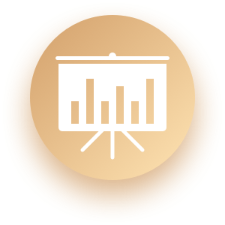
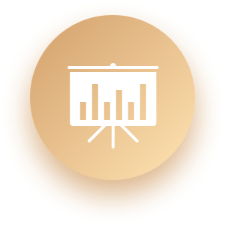
V1.14

Changed region(s): [[0.2489, 0.2178, 0.7778, 0.7156]]

diff --git a/Konnect/ServiceOffice/ServiceOffice.m b/Konnect/ServiceOffice/ServiceOffice.m
@@ -133,21 +133,23 @@
             [cell.textLabel setText:TEXT_MY_VIRTUAL_OFFICE];
         } else if (indexPath.row==2) {
             [cell.textLabel setText:TEXT_KONNECT_CONCERIGE];
+            /*
         } else if (indexPath.row==3) {
             [cell.textLabel setText:TEXT_BOOK_MEETING_ROOM];
         } else if (indexPath.row==4) {
             [cell.textLabel setText:TEXT_BOOK_POPUP_LOUNGE];
-        } else if (indexPath.row==5) {
-            [cell.textLabel setText:TEXT_BOOK_POLYFORM_EVENT];
-        } else if (indexPath.row==6) {
+             */
+        } else if (indexPath.row==3) {
+            [cell.textLabel setText:TEXT_BOOK_MEETING_ROOM];
+        } else if (indexPath.row==4) {
             [cell.textLabel setText:TEXT_PROMO];
-        } else if (indexPath.row==7) {
+        } else if (indexPath.row==5) {
             [cell.textLabel setText:TEXT_INVOICE];
-        } else if (indexPath.row==8) {
+        } else if (indexPath.row==6) {
             [cell.textLabel setText:TEXT_CS];
-        } else if (indexPath.row==9) {
+        } else if (indexPath.row==7) {
             [cell.textLabel setText:TEXT_SERVICE_OFFICE_TOU];
-        } else if (indexPath.row==10) {
+        } else if (indexPath.row==8) {
             [cell.textLabel setText:TEXT_SERVICE_VIRTUAL_TOU];
         }
     }
@@ -194,6 +196,7 @@
         } else if (indexPath.row==2) {
             [[NSNotificationCenter defaultCenter] postNotificationName:GO_SLIDE object:
              [[NSDictionary alloc] initWithObjects:@[[NSNumber numberWithInt:VC_TYPE_CONCIERGE]] forKeys:@[@"type"]]];
+            /*
         } else if (indexPath.row==3) {
             [[NSNotificationCenter defaultCenter] postNotificationName:GO_SLIDE object:
              [[NSDictionary alloc] initWithObjects:@[[NSNumber numberWithInt:VC_TYPE_SEARCH_MEETING_ROOM]] forKeys:@[@"type"]]];
@@ -205,7 +208,8 @@
                                                                 @"view"
                                                                 ]
                                                       forKeys:@[@"type",@"facilityID",@"queryType"]]];
-        } else if (indexPath.row==5) {            
+             */
+        } else if (indexPath.row==3) {
                         [[NSNotificationCenter defaultCenter] postNotificationName:GO_SLIDE object:
                                    [[NSDictionary alloc] initWithObjects:@[
                                                                            [NSNumber numberWithInt:VC_TYPE_MEETING_ROOM],
@@ -213,23 +217,23 @@
                                                                            @"view"
                                                                            ]
                                                                  forKeys:@[@"type",@"facilityID",@"queryType"]]];
-        } else if (indexPath.row==6) {
+        } else if (indexPath.row==4) {
             // promo
             [[NSNotificationCenter defaultCenter] postNotificationName:GO_SLIDE object:
              [[NSDictionary alloc] initWithObjects:@[[NSNumber numberWithInt:VC_TYPE_OFFICE_PROMO]] forKeys:@[@"type"]]];
             
-        } else if (indexPath.row==7) {
+        } else if (indexPath.row==5) {
             if ([delegate checkLogin]) {
                 [[NSNotificationCenter defaultCenter] postNotificationName:GO_SLIDE object:
                  [[NSDictionary alloc] initWithObjects:@[[NSNumber numberWithInt:VC_TYPE_INVOICES],TEXT_INVOICE_TYPE_PENDING] forKeys:@[@"type",@"status"]]];
             }
-        } else if (indexPath.row==8) {
+        } else if (indexPath.row==6) {
             [[NSNotificationCenter defaultCenter] postNotificationName:GO_SLIDE object:
              [[NSDictionary alloc] initWithObjects:@[[NSNumber numberWithInt:VC_TYPE_CONTACT_OFFICE],TEXT_INQUIRY_SERVICE_OFFICE_SUPPORT] forKeys:@[@"type",@"inquirytype"]]];
-        } else if (indexPath.row==9) {
+        } else if (indexPath.row==7) {
             [[NSNotificationCenter defaultCenter] postNotificationName:GO_SLIDE object:
              [[NSDictionary alloc] initWithObjects:@[[NSNumber numberWithInt:VC_TYPE_TOU],[NSString stringWithFormat:@"%@service-office-house-rules/",domain]] forKeys:@[@"type",@"url"]]];
-        } else if (indexPath.row==10) {
+        } else if (indexPath.row==8) {
             [[NSNotificationCenter defaultCenter] postNotificationName:GO_SLIDE object:
              [[NSDictionary alloc] initWithObjects:@[[NSNumber numberWithInt:VC_TYPE_TOU],[NSString stringWithFormat:@"%@virtual-office-house-rules/",domain]] forKeys:@[@"type",@"url"]]];
             

diff --git a/Konnect/Facility/Booking.m b/Konnect/Facility/Booking.m
@@ -204,11 +204,11 @@
     UIPickerView *picker = [pickerViewToolbar viewWithTag:1];
     if (picker==datepicker) {
         bookDate = pickerValue.text;
-        [self.tableView reloadRowsAtIndexPaths:@[[NSIndexPath indexPathForRow:2 inSection:0]] withRowAnimation:UITableViewRowAnimationFade];
-    } else if (picker==timepicker){
         [self.tableView reloadRowsAtIndexPaths:@[[NSIndexPath indexPathForRow:3 inSection:0]] withRowAnimation:UITableViewRowAnimationFade];
-    } else if (picker==peoplepicker){
+    } else if (picker==timepicker){
         [self.tableView reloadRowsAtIndexPaths:@[[NSIndexPath indexPathForRow:4 inSection:0]] withRowAnimation:UITableViewRowAnimationFade];
+    } else if (picker==peoplepicker){
+        [self.tableView reloadRowsAtIndexPaths:@[[NSIndexPath indexPathForRow:5 inSection:0]] withRowAnimation:UITableViewRowAnimationFade];
     } else if (picker==roompicker){
         [self.tableView reloadRowsAtIndexPaths:@[[NSIndexPath indexPathForRow:7 inSection:0]] withRowAnimation:UITableViewRowAnimationFade];
     } else if (picker==alcoholpicker){

diff --git a/Konnect/Home/Home.m b/Konnect/Home/Home.m
@@ -174,10 +174,12 @@
 -(void) addBottomPart:(NSArray *)data {
     CGFloat x = SIDE_PAD;
     CGFloat y = 0;
-    CGFloat width = (delegate.screenWidth-SIDE_PAD_2-SIDE_PAD)/2;
+    //CGFloat width = (delegate.screenWidth-SIDE_PAD_2-SIDE_PAD)/2;
+    CGFloat width = (delegate.screenWidth-SIDE_PAD_2-SIDE_PAD_2)/3;
+    CGFloat height = width / 315 * 360;
     int k = 0;
     for (NSDictionary *d in data) {
-        UIImageView *v =[[UIImageView alloc] initWithFrame:CGRectMake(x,y,width,80)];
+        UIImageView *v =[[UIImageView alloc] initWithFrame:CGRectMake(x,y,width,height)];
         [v setUserInteractionEnabled:YES];
         v.tag = k;
         UITapGestureRecognizer *tap = [[UITapGestureRecognizer alloc] initWithTarget:self action:@selector(adpressed:)];
@@ -190,7 +192,7 @@
         x+= SIDE_PAD + width;
         if ((x+width) > delegate.screenWidth) {
             x = SIDE_PAD;
-            y+=70+LINE_PAD;
+            y+=height+LINE_PAD;
         }
         [bottom addSubview:v];
         

diff --git a/Konnect/Header.m b/Konnect/Header.m
@@ -20,9 +20,9 @@
 - (void)viewDidLoad {
     [super viewDidLoad];
     // Do any additional setup after loading the view.
+    [self.view setBackgroundColor:[delegate getThemeColor]];
     delegate = (AppDelegate *)[[UIApplication sharedApplication]delegate];
     backEnabled = YES;
-    [self.view setBackgroundColor:[delegate getThemeColor]];
 
     back = [UIButton  buttonWithType:UIButtonTypeCustom];
     [back setFrame:CGRectMake(SIDE_PAD,delegate.headerHeight-30,24,24)];
@@ -53,6 +53,9 @@
 
     
     [[NSNotificationCenter defaultCenter] addObserver:self selector:@selector(changeTitle:) name:CHANGE_TITLE object:nil];
+}
+-(void) viewWillAppear:(BOOL)animated {
+    [self.view setBackgroundColor:[delegate getThemeColor]];
 }
 -(void) redirectBackBtn:(NSNotification *)t {
     [back removeTarget:self action:@selector(onBackPressed) forControlEvents:UIControlEventAllEvents];

diff --git a/Konnect/AppDelegate.m b/Konnect/AppDelegate.m
@@ -182,7 +182,9 @@
     [JPUSHService registerDeviceToken:deviceToken];
     
     NSString *dToken = JPUSHService.registrationID;
-    if ([dToken isKindOfClass:[NSString class]] && ![@"" isEqualToString:dToken]) {
+    if ([dToken isKindOfClass:[NSString class]] && ![@"" isEqualToString:dToken] &&
+        [[preferences objectForKey:K_USER_OPENID] isKindOfClass:[NSString class]] && ![[preferences objectForKey:K_USER_OPENID] isEqualToString:@""]
+        ) {
     [[KApiManager sharedManager] getResultAsync:[NSString stringWithFormat:@"%@app-server",domain] param:
         [[NSDictionary alloc] initWithObjects:@[
                                                 @"Jpush",

diff --git a/Konnect/Facility/ImageGallery.m b/Konnect/Facility/ImageGallery.m
@@ -35,7 +35,7 @@
         [nav.view setFrame:CGRectMake(0,0,delegate.screenWidth,delegate.screenHeight-PANEL_HEIGHT)];
         [self.view addSubview:nav.view];
         
-        panel = [[UIScrollView alloc] initWithFrame:CGRectMake(0,delegate.screenHeight-PANEL_HEIGHT,delegate.screenWidth,PANEL_HEIGHT)];
+        panel = [[UIScrollView alloc] initWithFrame:CGRectMake(0,delegate.screenHeight-PANEL_HEIGHT-delegate.footerHeight,delegate.screenWidth,PANEL_HEIGHT)];
         [panel setBackgroundColor:[UIColor colorWithWhite:0.98 alpha:1.0]];
         [self.view addSubview:panel];
         

diff --git a/Konnect/Facility/ImageZoomViewController.m b/Konnect/Facility/ImageZoomViewController.m
@@ -77,7 +77,7 @@
     //[base setContentSize:CGSizeMake(img.size.width,img.size.height)];
     [base scrollRectToVisible:CGRectMake(0,0,1,1) animated:NO];
     
-    image.center = CGPointMake(delegate.screenWidth/2, delegate.screenHeight/2-72);
+    image.center = CGPointMake(delegate.screenWidth/2, (delegate.screenHeight-delegate.footerHeight)/2-72);
     /*
     CGFloat scaleX = 1.0f* self.view.frame.size.width / img.size.width;
     CGFloat scaleY = 1.0f* self.view.frame.size.height / img.size.height;

diff --git a/Konnect/AppDelegate.h b/Konnect/AppDelegate.h
@@ -7,6 +7,16 @@
 //
 /* TODO : Invoice Create per item details
  TODO: Check Login Validity
+ Version 1.14
+ 1) Changed App Icon
+ 2) Updated Homepage Icons
+ 3) changed Homepage layout
+ 4) Removed Meeting room booking and replaced with Polyform space booking form
+ 5) Fixed reservation now page
+ 6) Fixed layout for image gallery
+ 
+ Version 1.13 (16/2/2020)
+ 1) Second patch for Guarded a JPUSH registration error (test)
  
  Version 1.12 (16/2/2020)
  1) Added Search Filters to Association Selection
